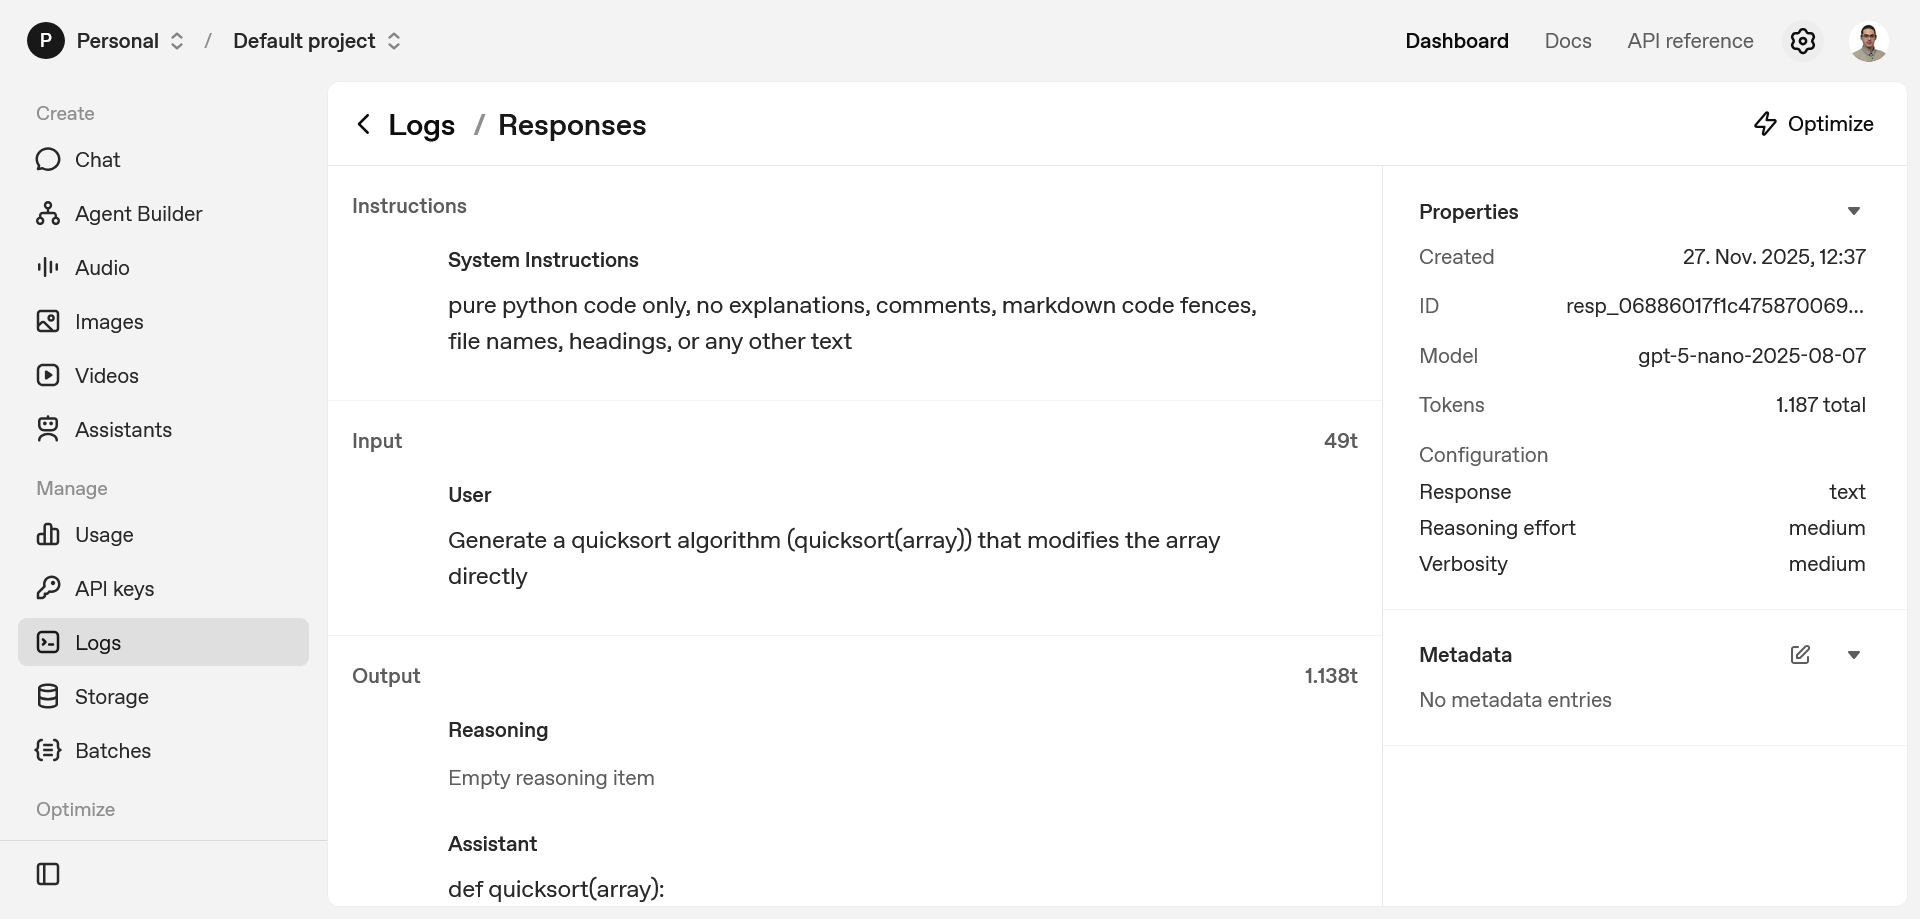
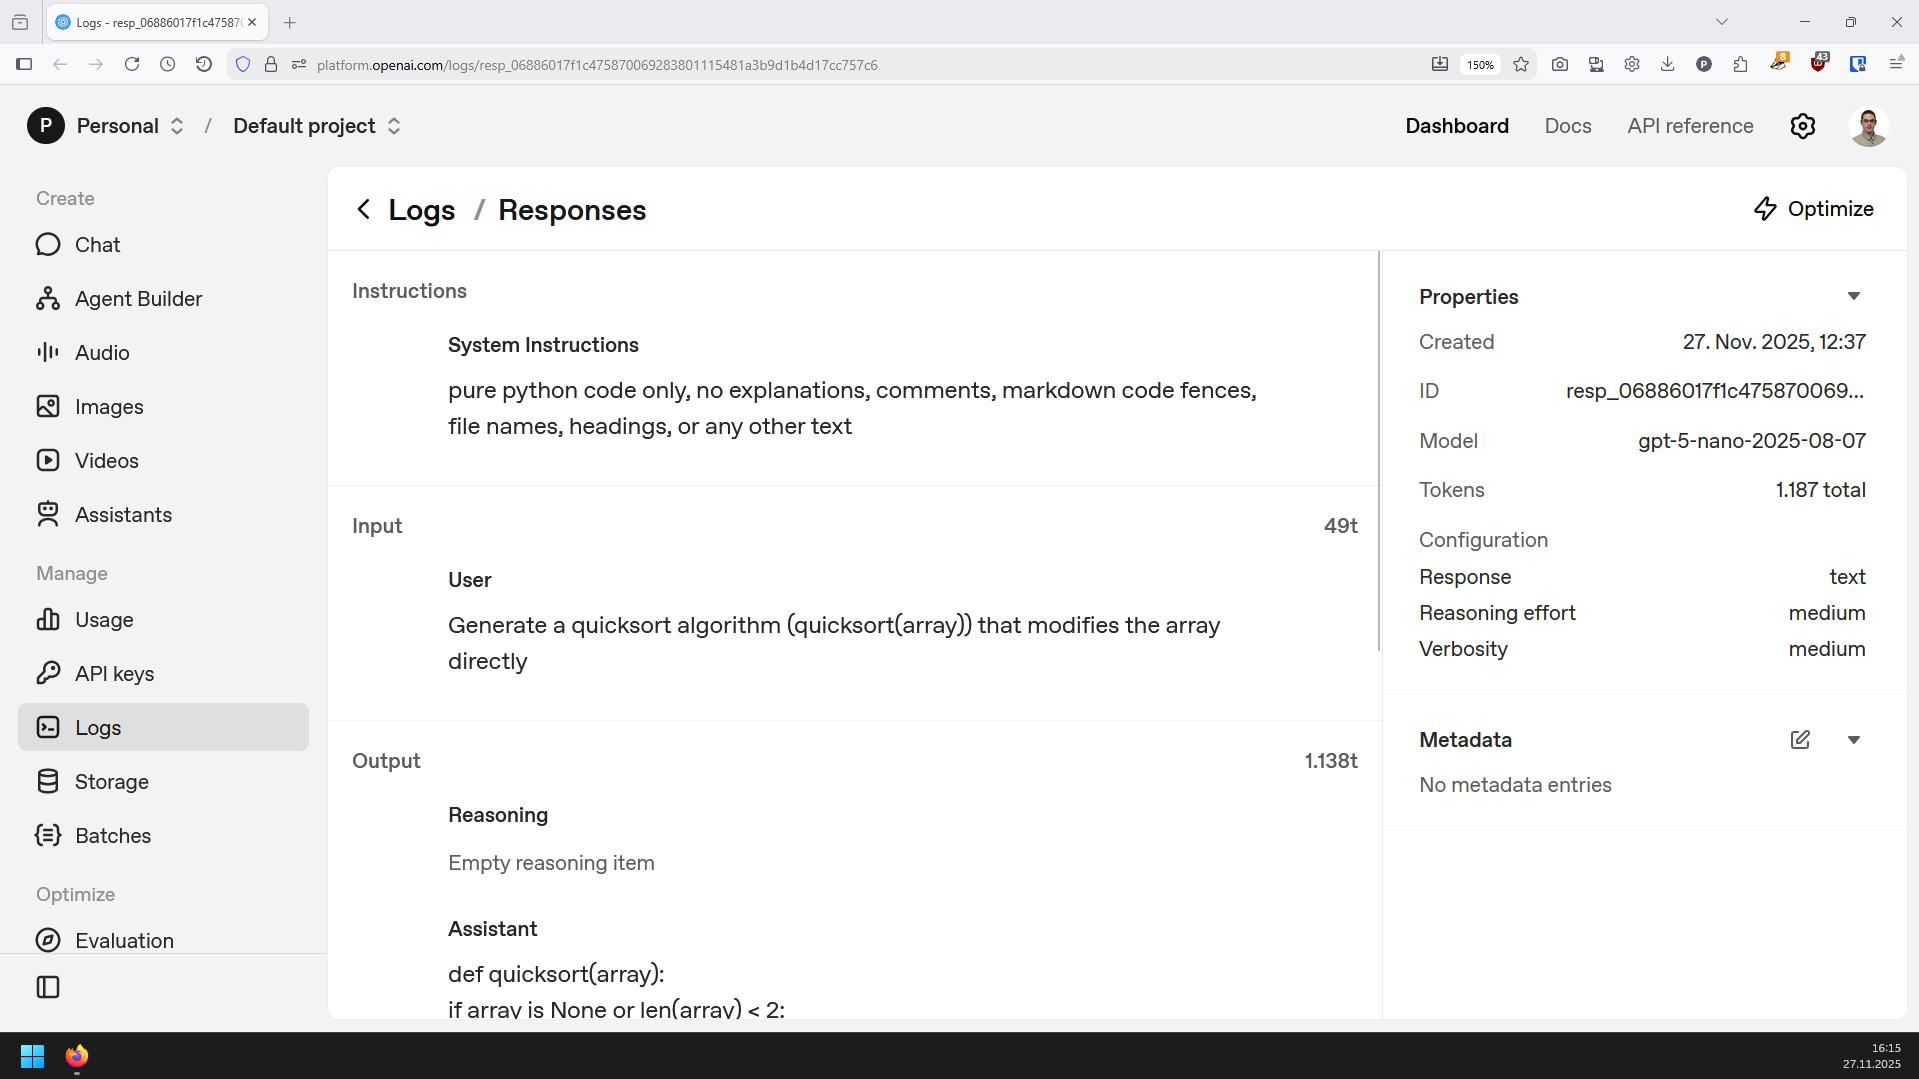
Update images

diff --git a/4-5/readme.md b/4-5/readme.md
@@ -10,11 +10,13 @@
 
 ### Виконання:
 
-#### Створення ключа OpenAI API
+[**_GitHub_**](https://github.com/SimonRoG/PIIS/blob/main/4-5/readme.md)
+
+**Створення ключа OpenAI API**
 
 ![](pics/1APIkey.png)
 
-#### Лістинг: [`aialgorithms.ipynb`](aialgorithms.ipynb)
+**Лістинг:** [`aialgorithms.ipynb`](aialgorithms.ipynb)
 
 ```python
 from openai import OpenAI
@@ -178,7 +180,7 @@ Mean Price for Neighborhood 'Rural': 224096.1260397619
 
 ![](pics/histogram.png)
 
-#### Логи:
+**Логи:**
 
 ![](pics/2LogQuicksort.png)
 
